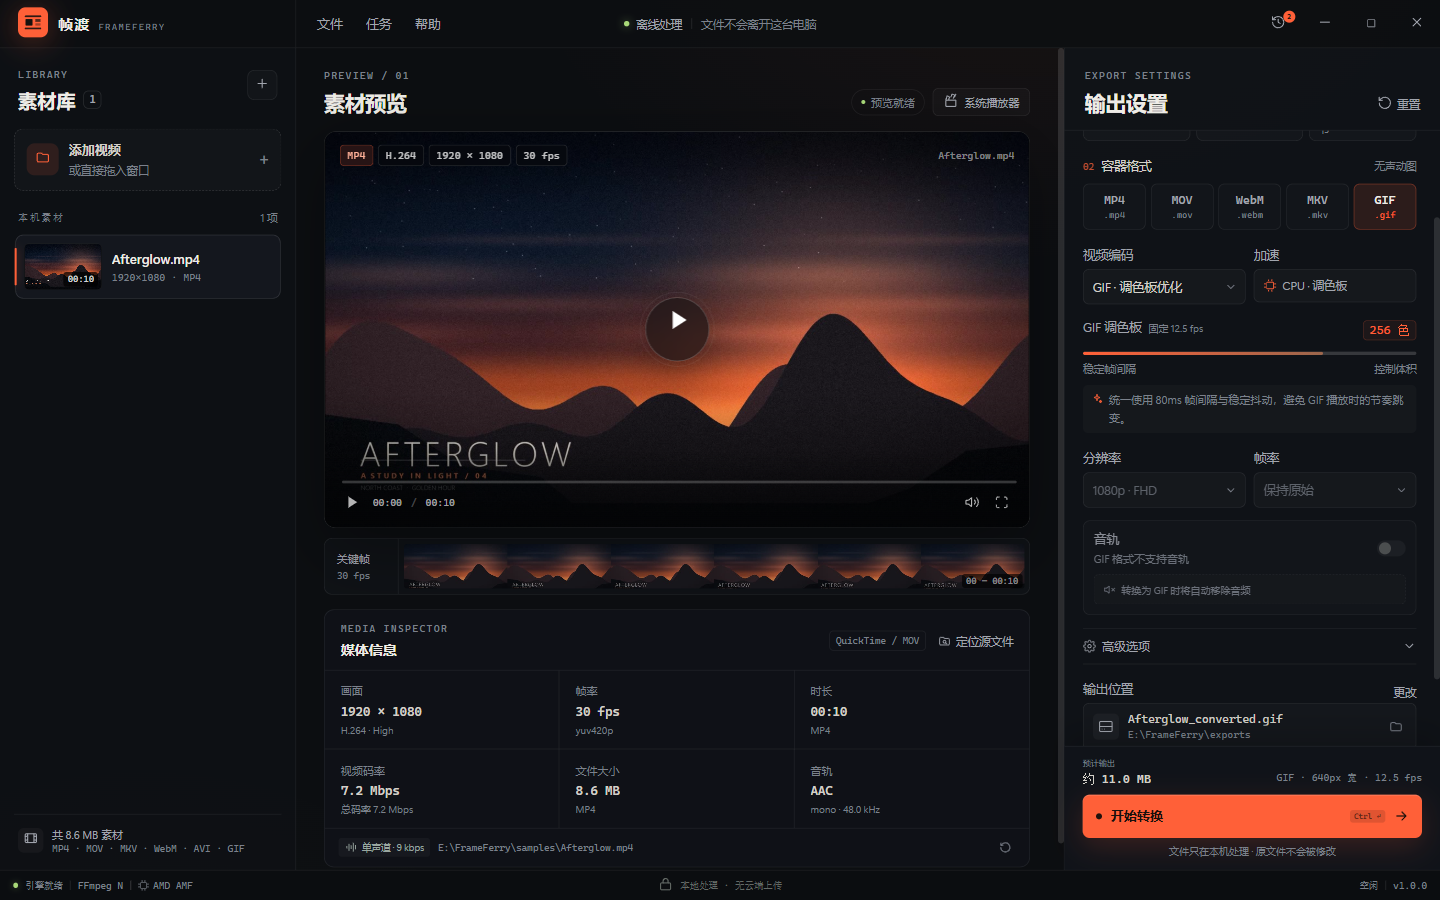
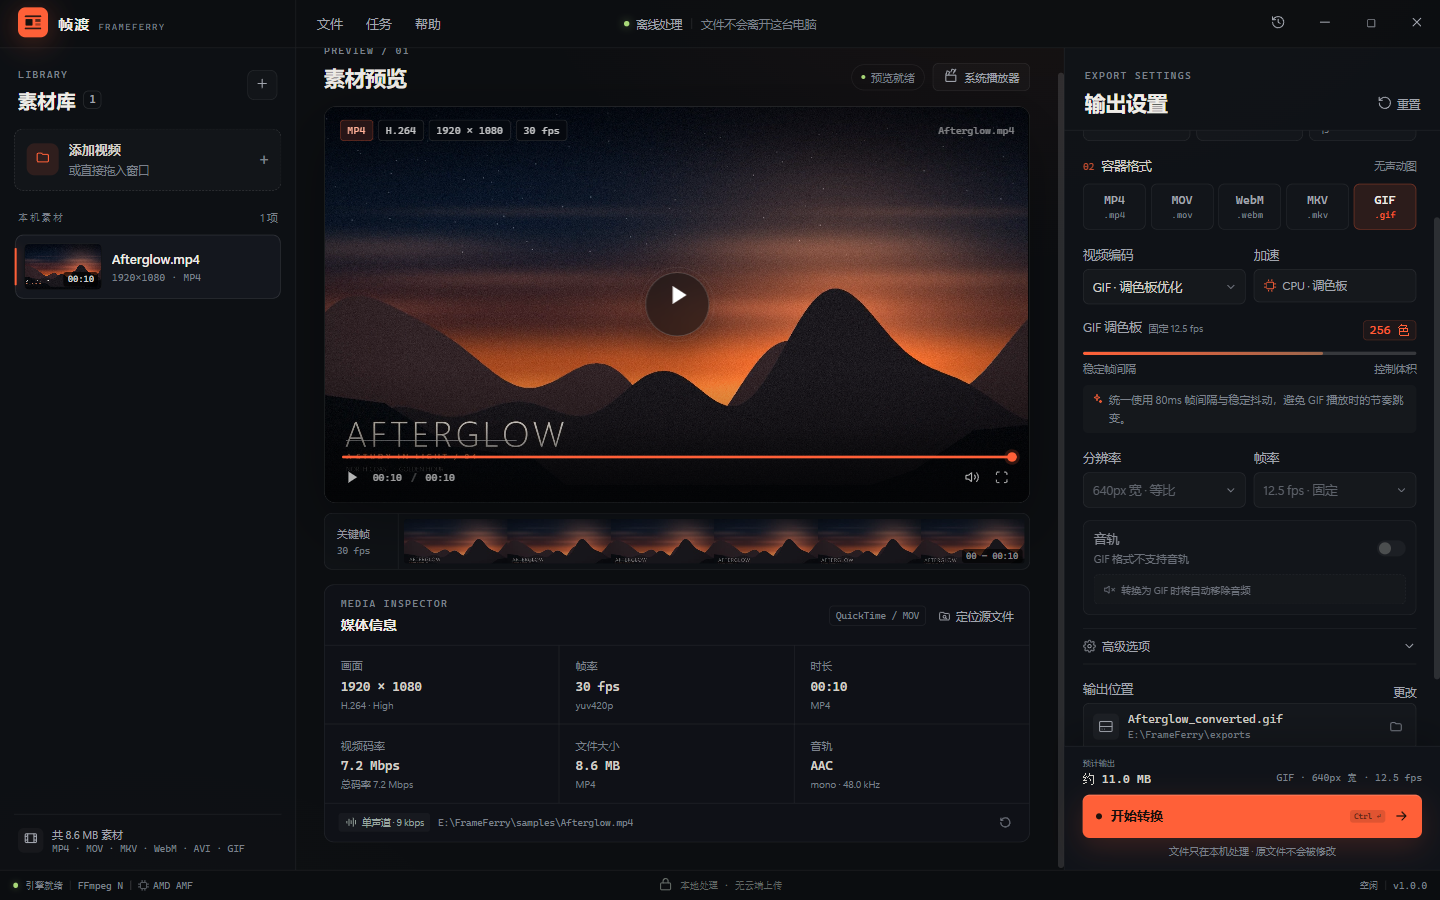
fix: 修复队列、路径与退出清理问题
修复清除已完成重复插入、队列 LIFO、同路径并发竞争、退出后 ffmpeg 残留、自定义输出扩展名不同步、MP4/MOV 音频编码约束、ProRes 像素格式、进度广播回退和探测缓存过期；补充回归测试与文档。

diff --git a/renderer/app.js b/renderer/app.js
@@ -115,6 +115,12 @@ function preferredOutputPath(sourcePath, format) {
   return outputPathFor(sourcePath, format, state.defaultOutputDir)
 }
 
+function outputPathWithFormat(filePath, format) {
+  const value = String(filePath || '')
+  if (!value) return ''
+  return value.replace(/\.[a-z0-9]{2,5}$/i, '') + `.${format}`
+}
+
 const FORMAT_META = {
   mp4: { label: 'MP4', note: '通用分享' },
   mov: { label: 'MOV', note: '剪辑交付' },
@@ -513,41 +519,42 @@ function renderSettings() {
       <div class="mini-field">
         <div class="field-label"><span>分辨率</span></div>
         <div class="select-shell"><select data-select="resolution" ${isGif ? 'disabled' : ''}>
+          ${isGif ? '<option value="gif" selected>640px 宽 · 等比</option>' : `
           <option value="source" ${settings.resolution === 'source' ? 'selected' : ''}>保持原始</option>
           <option value="2160" ${settings.resolution === 2160 ? 'selected' : ''}>2160p · 4K</option>
           <option value="1440" ${settings.resolution === 1440 ? 'selected' : ''}>1440p · 2K</option>
           <option value="1080" ${settings.resolution === 1080 ? 'selected' : ''}>1080p · FHD</option>
           <option value="720" ${settings.resolution === 720 ? 'selected' : ''}>720p · HD</option>
-          <option value="480" ${settings.resolution === 480 ? 'selected' : ''}>480p · SD</option>
+          <option value="480" ${settings.resolution === 480 ? 'selected' : ''}>480p · SD</option>`}
         </select>${icon('chevronDown', 13)}</div>
       </div>
       <div class="mini-field">
         <div class="field-label"><span>帧率</span></div>
         <div class="select-shell"><select data-select="fps" ${isGif || isProres ? 'disabled' : ''}>
+          ${isGif ? '<option value="12.5" selected>12.5 fps · 固定</option>' : `
           <option value="source" ${settings.fps === 'source' ? 'selected' : ''}>保持原始</option>
           <option value="60" ${settings.fps === 60 ? 'selected' : ''}>60 fps</option>
           <option value="30" ${settings.fps === 30 ? 'selected' : ''}>30 fps</option>
-          <option value="24" ${settings.fps === 24 ? 'selected' : ''}>24 fps</option>
+          <option value="24" ${settings.fps === 24 ? 'selected' : ''}>24 fps</option>`}
         </select>${icon('chevronDown', 13)}</div>
       </div>
     </div>
 
     <div class="audio-block ${!settings.audio ? 'is-muted' : ''}">
       <div class="audio-head">
-        <div><div class="field-label"><span>音轨</span></div><span class="audio-sub">${isGif ? 'GIF 格式不支持音轨' : settings.audio ? (settings.audioCodec === 'opus' ? 'Opus · 网页优化' : 'AAC · 广泛兼容') : '已移除音轨'}</span></div>
+        <div><div class="field-label"><span>音轨</span></div><span class="audio-sub">${isGif ? 'GIF 格式不支持音轨' : !settings.audio ? '已移除音轨' : isProres ? 'PCM · 无损' : settings.audioCodec === 'opus' && settings.format === 'mkv' ? 'Opus · 可封装' : settings.audioCodec === 'opus' ? 'Opus · 网页优化' : 'AAC · 广泛兼容'}</span></div>
         <button class="switch ${settings.audio ? 'is-on' : ''}" role="switch" aria-checked="${settings.audio}" data-toggle="audio" ${isGif ? 'disabled' : ''}><span class="switch-thumb"></span></button>
       </div>
       ${isGif ? `<div class="audio-disabled-row">${icon('volumeX', 12)} 转换为 GIF 时将自动移除音频</div>` : settings.audio ? `<div class="audio-options">
-        <div class="select-shell slim"><select data-select="audioCodec" ${settings.format === 'webm' ? 'disabled' : ''}>
-          <option value="aac" ${settings.audioCodec === 'aac' ? 'selected' : ''}>AAC</option>
-          <option value="opus" ${settings.audioCodec === 'opus' ? 'selected' : ''}>Opus</option>
+        <div class="select-shell slim"><select data-select="audioCodec" ${settings.format === 'mkv' ? '' : 'disabled'}>
+          ${isProres ? '<option selected>PCM · 无损</option>' : settings.format === 'webm' ? '<option selected>Opus</option>' : settings.format === 'mkv' ? `<option value="aac" ${settings.audioCodec === 'aac' ? 'selected' : ''}>AAC</option><option value="opus" ${settings.audioCodec === 'opus' ? 'selected' : ''}>Opus</option>` : '<option selected>AAC</option>'}
         </select>${icon('chevronDown', 12)}</div>
-        <div class="select-shell slim"><select data-select="audioBitrate">
+        <div class="select-shell slim">${isProres ? '<select disabled><option selected>PCM 48 kHz</option></select>' : `<select data-select="audioBitrate">
           <option value="128" ${settings.audioBitrate === 128 ? 'selected' : ''}>128 kbps</option>
           <option value="192" ${settings.audioBitrate === 192 ? 'selected' : ''}>192 kbps</option>
           <option value="256" ${settings.audioBitrate === 256 ? 'selected' : ''}>256 kbps</option>
           <option value="320" ${settings.audioBitrate === 320 ? 'selected' : ''}>320 kbps</option>
-        </select>${icon('chevronDown', 12)}</div>
+        </select>`}${icon('chevronDown', 12)}</div>
       </div>` : `<div class="audio-disabled-row">${icon('volumeX', 12)} 输出将不包含音频轨道</div>`}
     </div>
 
@@ -620,7 +627,13 @@ function renderQueue() {
   if (!slot) return
   if (!state.jobs.length) { slot.innerHTML = ''; return }
   const finishedCount = state.jobs.filter((job) => ['done', 'failed', 'cancelled'].includes(job.status)).length
-  const jobs = state.jobs.slice(0, 2)
+  const activeJobs = state.jobs
+    .filter((job) => ['running', 'queued'].includes(job.status))
+    .sort((a, b) => String(a.createdAt).localeCompare(String(b.createdAt)))
+  const finishedJobs = state.jobs
+    .filter((job) => !['running', 'queued'].includes(job.status))
+    .sort((a, b) => String(b.finishedAt || b.createdAt).localeCompare(String(a.finishedAt || a.createdAt)))
+  const jobs = [...activeJobs, ...finishedJobs].slice(0, 2)
   slot.innerHTML = `<div class="queue-block dock-queue-block">
     <div class="queue-head"><span><span class="queue-live-dot"></span>转换队列 <b>${state.jobs.length}</b></span>${finishedCount ? '<button class="text-button" data-action="clear-finished">清除已完成</button>' : ''}</div>
     <div class="queue-list">${jobs.map((job) => {
@@ -781,7 +794,7 @@ function updateSettings(patch, options = {}) {
   if (patch.format === 'webm') { next.audioCodec = 'opus'; next.faststart = false }
   if (patch.format === 'mp4' || patch.format === 'mov') {
     next.faststart = true
-    if (next.audioCodec !== 'opus') next.audioCodec = 'aac'
+    next.audioCodec = 'aac'
   }
   if (patch.videoCodec === 'prores') {
     next.format = 'mov'; next.audioCodec = 'aac'; next.faststart = true; next.audio = true
@@ -790,9 +803,13 @@ function updateSettings(patch, options = {}) {
   if (patch.format && patch.format !== 'gif' && next.videoCodec === 'gif') {
     next.videoCodec = FORMAT_CODECS[patch.format][0]; next.audio = true
   }
+  if (next.format === 'mp4' || next.format === 'mov') next.audioCodec = 'aac'
+  if (next.format === 'webm') next.audioCodec = 'opus'
   const file = activeFile()
-  if (file && !state.outputEdited && next.format !== previousFormat) {
-    state.outputPath = preferredOutputPath(file.path, next.format)
+  if (file && next.format !== previousFormat) {
+    state.outputPath = state.outputEdited && state.outputPath
+      ? outputPathWithFormat(state.outputPath, next.format)
+      : preferredOutputPath(file.path, next.format)
   }
   state.settings = next
   if (!options.keepPreset) state.preset = 'custom'
@@ -812,7 +829,11 @@ function applyPreset(id) {
     audioCodec: 'aac',
     faststart: true
   }
-  if (file && !state.outputEdited) state.outputPath = preferredOutputPath(file.path, state.settings.format)
+  if (file) {
+    state.outputPath = state.outputEdited && state.outputPath
+      ? outputPathWithFormat(state.outputPath, state.settings.format)
+      : preferredOutputPath(file.path, state.settings.format)
+  }
   renderSettings()
 }
 
@@ -820,7 +841,7 @@ async function chooseOutput() {
   try {
     const chosen = await api.chooseOutput({ format: state.settings.format, defaultPath: state.outputPath })
     if (chosen) {
-      state.outputPath = /\.[a-z0-9]{2,5}$/i.test(chosen) ? chosen : `${chosen}.${state.settings.format}`
+      state.outputPath = outputPathWithFormat(chosen, state.settings.format)
       state.outputEdited = true
       renderSettings()
       renderTitleMeta()

diff --git a/docs/TEST_REPORT.md b/docs/TEST_REPORT.md
@@ -79,6 +79,14 @@
 - ffprobe：125 帧，每帧 `pkt_duration_time=0.080000`，时长约 10s
 - 修复前：15fps 在 GIF 的 10ms 延迟粒度下被拆成 70ms / 60ms 交替，肉眼表现为节奏跳变；改为 12.5fps 后所有帧固定 80ms
 
+### 5.4 MOV / ProRes 422 HQ
+
+- 设置：MOV、ProRes 422 HQ、480p、PCM 音频
+- 结果：成功
+- 输出：95,654,730 bytes
+- ffprobe：视频 `prores / yuv422p10le`，音频 `pcm_s16le`
+- 这一轮修复了此前所有非 GIF 编码统一被强制 `yuv420p` 的问题
+
 ## 6. 输出路径与任务行为
 
 | 用例 | 结果 |
@@ -90,6 +98,11 @@
 | 中文/空格路径 | 文件对话框与 Node 参数均为数组传参，不经过 shell 拼接 |
 | 取消任务 | 运行中可发送取消并结束子进程 |
 | 历史记录 | 成功后写入 `userData/history.json`，面板可定位输出 |
+| 并发同路径入队 | 两个任务分别输出 `race-test.mp4` 与 `race-test (2).mp4`，无覆盖 |
+| 清除已完成 | 无运行中任务时清空后 `listJobs()` 返回 `[]`；单元测试确认运行中任务只保留一次 |
+| 关闭应用 | WebM 转码中关闭窗口，3 秒后 `ffmpeg` 与 `FrameFerry` 进程均不存在 |
+| 自定义扩展名 | `custom.mkv` 切到 WebM 后 UI 路径变为 `custom.webm` |
+| 音频容器约束 | MP4 即使传入 Opus 也输出 AAC；MKV 可选 Opus；ProRes 输出 PCM |
 | 硬件失败回退 | 代码路径存在；当前机器 AMF 可用，未触发实际失败回退 |
 
 ## 7. 发现并修复的问题
@@ -102,11 +115,20 @@
 | Toast 遮挡主按钮 | 完成态截图 | 通知移至左下角 |
 | WebM 下仍显示「加速 AMD AMF」 | 转换中截图 | 非 H.264 显示 CPU 实际编码路径 |
 | 关闭硬件开关仍使用硬件 | 代码审查发现 `job.settings` 未被读取 | 队列读取 `job.settings.hardware` |
+| 清除已完成会复制运行中任务 | 代码审查：`clearFinished` 先过滤再 unshift 运行任务 | 直接过滤终态，不再重复插入 |
+| 队列 LIFO | 单元测试确认最早任务未被先启动 | `pump()` 反向查找最早的 queued |
+| 同路径并发入队 | 同输出路径可能同时分配给两个任务 | 队列串行化 + 路径占位，集成测试生成 `(2)` |
+| 退出后 ffmpeg 未结束 | 关闭窗口后进程仍存在 | `before-quit` 调用 `shutdown()` 并杀子进程 |
+| 自定义路径扩展名不跟随格式 | UI 显示与实际扩展名不一致 | 统一 `outputPathWithFormat()` |
+| MP4/MOV 可选 Opus | 兼容性差且 ProRes 音频 UI 与实际不符 | 按容器锁定音频编码，ProRes 显示 PCM |
+| ProRes pix_fmt 错误 | 强制 yuv420p，与 422 HQ 不符 | 改为 yuv422p10le，ffprobe 验证 |
+| 进度广播旧快照回退 | 高频进度下 UI 可能回退 | leading + trailing 节流 |
+| 探测缓存不随文件变化 | 替换同路径文件后信息过期 | key 加入 size + mtime |
 
 ## 8. 未覆盖
 
 - 真实鼠标拖放（DevTools 合成的 File 无法携带宿主文件路径）——代码走 Electron 官方 `webUtils.getPathForFile` 路径；建议验收时手动拖入一次。
-- H.265 / ProRes / MOV 的真实转码（参数路径已实现，未在本次机器上逐项跑完）。
+- H.265 与 H.264 MOV 的真实转码尚未逐项跑完（ProRes MOV 已验证）。
 - 多显示器、高 DPI 200%、Windows 10。
 - 代码签名与 SmartScreen 正式发布流程。
 - 多音频轨/字幕轨选择。

diff --git a/README.md b/README.md
@@ -126,9 +126,12 @@ npm start -- --open-file="E:\path\to\video.mp4"
 
 - 启动、无参启动、带文件参数启动；
 - 视频信息解析、海报帧、6 帧胶片条、应用内播放与拖动（`readyState=4`，无媒体错误）；
-- MP4（H.264 + AAC，AMD AMF 硬件编码）、WebM（VP9 + Opus）、GIF（调色板）三种真实转换；
+- MP4（H.264 + AAC，AMD AMF 硬件编码）、WebM（VP9 + Opus）、GIF（12.5fps / 80ms 固定帧间隔）、MOV ProRes 422 HQ + PCM 四种真实转换；
 - 输出路径、同名避让、历史记录、完成态与 toast 提示；
 - 默认保存文件夹的设置加载、自动落到该目录、重启持久化；
+- 并发入队时输出路径自动避让（`race-test.mp4` / `race-test (2).mp4`）；
+- 清除已完成任务不会复制运行中任务；关闭应用会终止正在运行的 FFmpeg；
+- 自定义输出文件在切换格式时同步更新扩展名，避免 UI 显示与实际文件不一致；
 - 1440×900 截图下布局与主操作可见性。
 
 详细记录见 [`docs/TEST_REPORT.md`](docs/TEST_REPORT.md)。
